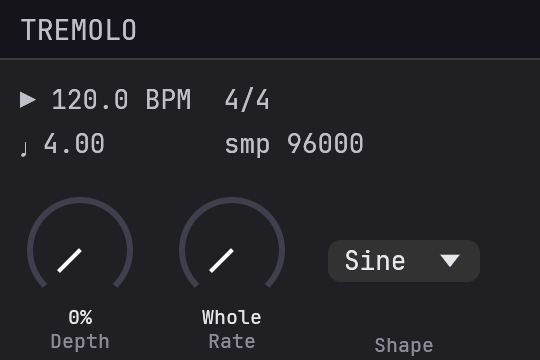
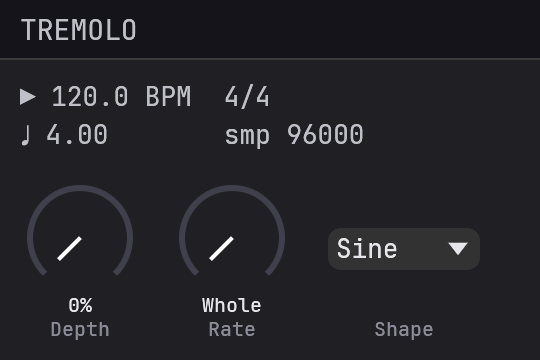
egui: Noto Music baseline, default font, dropdown / tremolo fixes
Layout fixes for egui 0.37.

diff --git a/crates/truce-egui/src/font.rs b/crates/truce-egui/src/font.rs
@@ -20,13 +20,30 @@ pub fn apply_font(ctx: &egui::Context, font_data: &'static [u8]) {
         Arc::new(egui::FontData::from_static(font_data)),
     );
     // Symbol fallback for glyphs the primary font lacks (musical notes
-    // like `♩`, misc symbols). egui 0.37 moved its own symbol fonts
-    // behind an opt-in feature whose font crate isn't reliably published,
-    // so without this such glyphs render as tofu. Appended last, so it
-    // only fills gaps the primary (and any egui default) don't cover.
+    // like `♩`, misc symbols). egui 0.37 ships its fonts only behind its
+    // `default_fonts` feature (emoji additionally behind
+    // `monochrome_emoji_fonts`), which truce-egui leaves off, so without
+    // this such glyphs render as tofu. Appended last, so it only fills
+    // gaps the primary and any egui fonts a plug-in opted into don't cover.
+    // Noto Music covers music symbols, not emoji or egui's icon glyphs -
+    // a plug-in that uses those enables egui's font features itself.
+    //
+    // Tweaked to sit with the primary text: Noto Music draws its notes
+    // small within the em (`♩` is ~0.6 cap height at scale 1) and its tall,
+    // bottom-light vertical metrics put the glyph ~2 pt under the
+    // primary's baseline at 13 pt. Scale 1.4 and a lift of 0.2 of the
+    // scaled size (0.28 em) bring `♩` to cap height on the baseline. Row
+    // heights come from the primary face, so they're untouched; a symbol's
+    // advance does grow 1.4x with the scale.
     fonts.font_data.insert(
         "truce_symbols".to_owned(),
-        Arc::new(egui::FontData::from_static(truce_font::NOTO_MUSIC)),
+        Arc::new(
+            egui::FontData::from_static(truce_font::NOTO_MUSIC).tweak(egui::FontTweak {
+                scale: 1.4,
+                y_offset_factor: -0.2,
+                ..Default::default()
+            }),
+        ),
     );
     for family in [egui::FontFamily::Proportional, egui::FontFamily::Monospace] {
         let fam = fonts.families.get_mut(&family).unwrap();
@@ -34,4 +51,34 @@ pub fn apply_font(ctx: &egui::Context, font_data: &'static [u8]) {
         fam.push("truce_symbols".to_owned());
     }
     ctx.set_fonts(fonts);
+}
+
+/// Load the editor's fonts: `font_data` if the editor set one with
+/// `with_font`, else [`truce_font::JETBRAINS_MONO`]. Either way the Noto
+/// Music symbol fallback comes along (see [`apply_font`]).
+///
+/// egui 0.37 ships no fonts unless its `default_fonts` feature is on
+/// (truce-egui leaves it off), so an editor that applied nothing - the
+/// 6.x behaviour without `with_font` - would draw every glyph as tofu.
+pub(crate) fn apply_editor_font(ctx: &egui::Context, font_data: Option<&'static [u8]>) {
+    apply_font(ctx, font_data.unwrap_or(truce_font::JETBRAINS_MONO));
+}
+
+#[cfg(test)]
+mod tests {
+    /// An editor that never called `with_font` must still draw text: egui
+    /// 0.37 ships no fonts of its own here (`default_fonts` off), so
+    /// without the fallback every glyph is tofu.
+    #[test]
+    fn editor_without_with_font_has_glyphs() {
+        let ctx = egui::Context::default();
+        super::apply_editor_font(&ctx, None);
+        let mut out = ctx.run_ui(egui::RawInput::default(), |_| {});
+        out.textures_delta.clear();
+        let has = |t: &str| ctx.fonts_mut(|f| f.has_glyphs(&egui::FontId::proportional(14.0), t));
+        assert!(has("Gain 0.0 dB"), "default font missing");
+        assert!(has("\u{2669}"), "Noto Music fallback missing");
+        let mut out = ctx.run_ui(egui::RawInput::default(), |_| {});
+        out.textures_delta.clear();
+    }
 }

diff --git a/crates/truce-egui/src/widgets/dropdown.rs b/crates/truce-egui/src/widgets/dropdown.rs
@@ -14,16 +14,15 @@ use truce_params::{Params, sample::Float};
 // row of mixed dropdowns / knobs has all labels at the same baseline.
 const CELL_W: f32 = 80.0;
 const CELL_H: f32 = 82.0;
-/// Y of the label's top edge inside the cell. The knob paints its
-/// label with a direct `painter.text(..., Align2::CENTER_TOP)` call
-/// at `rect.top + 69`, whose visual top sits a few pixels lower
-/// than where `egui::Label` rendered through a `top_down` layout
-/// lands at the same y - the layout path applies extra item spacing
-/// above the label. Nudging the target down by ~3 px makes the
-/// label baselines match by eye.
-const LABEL_TOP_Y: f32 = 72.0;
-/// `ComboBox` button height under egui's default spacing.
-const COMBO_TOTAL_Y: f32 = 22.0;
+/// Y of the label's top edge inside the cell - exactly where
+/// `param_knob` paints its own. Painted directly the same way (not laid
+/// out after the `ComboBox`), so egui's widget metrics can't move it:
+/// egui 0.37's taller `interact_size` pushed a flowed label ~2 pt below
+/// the knobs'.
+const LABEL_TOP_Y: f32 = 69.0;
+/// Space above the `ComboBox` button, centring it in the area over the
+/// label.
+const COMBO_TOP_PAD: f32 = 25.0;
 
 /// Render a click-to-open dropdown for the param `id` with `label`
 /// underneath. Option labels are derived from the param's range +
@@ -74,18 +73,19 @@ pub fn param_dropdown<P: Params + ?Sized>(
             .max_rect(rect)
             .layout(egui::Layout::top_down(egui::Align::Center)),
     );
-    // Vertically center the ComboBox button inside the cell. The label
-    // still anchors at `LABEL_TOP_Y` to line up with `param_knob`'s
-    // label. Layout from the top: pad above to center the button, then
-    // pad below to drop the label at the shared Y.
-    let combo_top_pad = ((LABEL_TOP_Y - COMBO_TOTAL_Y) / 2.0).max(0.0);
-    let combo_bottom_pad = (LABEL_TOP_Y - COMBO_TOTAL_Y - combo_top_pad).max(0.0);
-    child.add_space(combo_top_pad);
+    child.add_space(COMBO_TOP_PAD);
+    // egui 0.37's 8 pt button padding leaves a 1-col cell too narrow for
+    // a 6-char option ("Mode A", "Square") and wraps it mid-word into a
+    // taller button that can reach the label. Tighter padding fits those
+    // again; anything longer truncates with an ellipsis (`cols` widens
+    // the cell) rather than wrapping.
+    child.spacing_mut().button_padding.x = 4.0;
 
     let cur_value: f32 = state.get_param(id);
     let combo_resp = egui::ComboBox::from_id_salt(("truce-egui:param_dropdown", id))
         .selected_text(&current_text)
         .width(cell_w - 4.0)
+        .truncate()
         .show_ui(&mut child, |ui| {
             for i in 0..count {
                 let norm = discrete_norm(i, count);
@@ -101,10 +101,15 @@ pub fn param_dropdown<P: Params + ?Sized>(
             }
         });
 
-    child.add_space(combo_bottom_pad);
     let dim = ui.visuals().widgets.noninteractive.fg_stroke.color;
-    child.add(egui::Label::new(
-        egui::RichText::new(label).color(dim).size(10.0),
-    ));
+    // Clipped to the cell like `param_knob`'s, so a long label can't run
+    // into the neighbour.
+    ui.painter_at(rect).text(
+        egui::pos2(rect.center().x, rect.top() + LABEL_TOP_Y),
+        egui::Align2::CENTER_TOP,
+        label,
+        egui::FontId::proportional(10.0),
+        dim,
+    );
     combo_resp.response
 }

diff --git a/crates/truce-font/src/lib.rs b/crates/truce-font/src/lib.rs
@@ -15,8 +15,11 @@
 //! ("Copyright 2020 The `JetBrains` Mono Project Authors") is preserved
 //! inside the TTF.
 //!
-//! Downstream redistribution must keep the font's copyright notice
-//! intact and ship a copy of the OFL.
+//! Noto Music (the symbol fallback, [`NOTO_MUSIC`]) is under the same
+//! license with its own notice, shipped as `fonts/NotoMusic-OFL.txt`.
+//!
+//! Downstream redistribution must keep each font's copyright notice
+//! intact and ship a copy of its OFL.
 
 /// `JetBrains` Mono Regular as raw TTF bytes. Suitable for embedding in
 /// a plugin GUI as the fallback / canonical truce monospace font.
@@ -28,12 +31,15 @@ pub static JETBRAINS_MONO: &[u8] = include_bytes!("../fonts/JetBrainsMono-Regula
 
 /// Noto Music Regular as raw TTF bytes - a small (~80 KB) symbol fallback
 /// covering musical and miscellaneous-symbol glyphs (e.g. `♩` U+2669) that
-/// a plug-in UI may use but that `JetBrains` Mono lacks. egui's own bundled
-/// symbol fonts became opt-in (and their crate is not reliably published)
-/// in 0.37, so truce ships this as the fallback for GUI backends.
+/// a plug-in UI may use but that `JetBrains` Mono lacks. egui 0.37 ships
+/// its own fonts only behind its `default_fonts` / `monochrome_emoji_fonts`
+/// features, which truce-egui leaves off, so truce ships this as the
+/// fallback for GUI backends. It doesn't cover emoji or egui's icon glyphs.
 ///
 /// Noto Music is licensed under the SIL Open Font License v1.1 (the same
-/// license as `JetBrains` Mono); the text is at `fonts/OFL.txt`.
+/// license as `JetBrains` Mono, with its own copyright notice); its text is
+/// at `fonts/NotoMusic-OFL.txt`, also packaged via the manifest's
+/// `include` list.
 pub static NOTO_MUSIC: &[u8] = include_bytes!("../fonts/NotoMusic-Regular.ttf");
 
 /// Glyph rasterization over the bundled font. Behind the `raster`

diff --git a/crates/truce-egui/src/editor_ios.rs b/crates/truce-egui/src/editor_ios.rs
@@ -113,6 +113,9 @@ impl<P: Params + 'static> EguiEditor<P> {
         self
     }
 
+    /// Set a custom default font (TrueType data). Without one the editor
+    /// uses [`truce_font::JETBRAINS_MONO`] (egui 0.37 ships no fonts of
+    /// its own here); either way the Noto Music symbol fallback is added.
     #[must_use]
     pub fn with_font(mut self, font: &'static [u8]) -> Self {
         self.font = Some(font);
@@ -255,24 +258,10 @@ impl<P: Params + 'static> Editor for EguiEditor<P> {
         if let Some(v) = self.visuals.clone() {
             egui_ctx.set_visuals(v);
         }
-        if let Some(font_bytes) = self.font {
-            let mut fonts = egui::FontDefinitions::default();
-            fonts.font_data.insert(
-                "truce-egui".into(),
-                Arc::new(egui::FontData::from_static(font_bytes)),
-            );
-            fonts
-                .families
-                .entry(egui::FontFamily::Proportional)
-                .or_default()
-                .insert(0, "truce-egui".into());
-            fonts
-                .families
-                .entry(egui::FontFamily::Monospace)
-                .or_default()
-                .insert(0, "truce-egui".into());
-            egui_ctx.set_fonts(fonts);
-        }
+        // Same font setup as the desktop editor and the screenshot
+        // renderer, including the tweaked Noto Music symbol fallback -
+        // a hand-rolled copy here had no fallback, so `♩` drew as tofu.
+        crate::font::apply_editor_font(&egui_ctx, self.font);
 
         let typed_ctx = context.with_params(Arc::clone(&self.params));
         self.ui

diff --git a/crates/truce-egui/src/editor.rs b/crates/truce-egui/src/editor.rs
@@ -308,7 +308,9 @@ impl<P: Params + 'static> EguiEditor<P> {
         self
     }
 
-    /// Set a custom default font (TrueType data).
+    /// Set a custom default font (TrueType data). Without one the editor
+    /// uses [`truce_font::JETBRAINS_MONO`] (egui 0.37 ships no fonts of
+    /// its own here); either way the Noto Music symbol fallback is added.
     ///
     /// ```ignore
     /// EguiEditor::new(params, (400, 300), my_ui)
@@ -532,9 +534,7 @@ impl<P: Params + ?Sized> EguiWindowHandler<P> {
         }
         let egui_ctx = crate::new_egui_context();
         egui_ctx.set_visuals(self.visuals.clone());
-        if let Some(font_data) = self.font {
-            crate::font::apply_font(&egui_ctx, font_data);
-        }
+        crate::font::apply_editor_font(&egui_ctx, self.font);
         self.egui_ctx = egui_ctx;
         self.device_lost = device_lost;
     }
@@ -1597,9 +1597,7 @@ impl<P: Params + 'static> Editor for EguiEditor<P> {
                         RenderThread::spawn(hwnd, phys_w, phys_h, device_lost_for_renderer)
                     });
 
-                if let Some(font_data) = font {
-                    crate::font::apply_font(&egui_ctx, font_data);
-                }
+                crate::font::apply_editor_font(&egui_ctx, font);
 
                 // baseview's `on_frame` drives the frame loop, but it no
                 // longer paints unconditionally every tick: the handler's

diff --git a/examples/truce-example-tremolo/src/lib.rs b/examples/truce-example-tremolo/src/lib.rs
@@ -251,6 +251,9 @@ fn draw_transport_readout(ui: &mut egui::Ui, state: &PluginContext<TremoloParams
         Some([tempo, sig, beat, samples]) => {
             egui::Grid::new("transport")
                 .num_columns(2)
+                // Rows as tall as the text, not egui's `interact_size.y`
+                // (20 in 0.37) - these are read-only labels, nothing to hit.
+                .min_row_height(0.0)
                 .spacing(egui::vec2(16.0, 2.0))
                 .show(ui, |ui| {
                     cell(ui, &tempo);

diff --git a/crates/truce-egui/src/screenshot.rs b/crates/truce-egui/src/screenshot.rs
@@ -36,9 +36,7 @@ pub(crate) fn render_with_state<P: Params + ?Sized>(
     let ctx = egui::Context::default();
     ctx.set_visuals(visuals.unwrap_or_else(crate::theme::dark));
 
-    if let Some(font_data) = font {
-        crate::font::apply_font(&ctx, font_data);
-    }
+    crate::font::apply_editor_font(&ctx, font);
 
     // Acquire the GPU *before* running the UI. Both requests below can
     // fail on a GPU-less host (headless CI, a stripped container), and a

diff --git a/crates/truce-core/src/events.rs b/crates/truce-core/src/events.rs
@@ -478,7 +478,7 @@ impl EventList {
     ///   leaves a voice stuck sounding forever. A note-off can't be folded
     ///   like a param change, so the ring grows to take it.
     ///
-    /// Either grow is a one-off reallocation that a list sized via
+    /// Any grow is a one-off reallocation that a list sized via
     /// [`block_event_capacity`] should never hit.
     ///
     /// Channel-mode "All Notes Off" / "All Sound Off" (CC 123 / 120) are

diff --git a/CHANGELOG.md b/CHANGELOG.md
@@ -38,6 +38,14 @@ This release updates the GUI stack and raises the minimum Rust version: `truce-e
    +egui::Panel::left("p").show(ui, |ui| { /* ... */ });
    ```
 
+   **Fonts.** egui 0.37 ships its built-in fonts (Ubuntu-Light, Hack, egui's icon glyphs, and the emoji fonts) only behind its `default_fonts` / `monochrome_emoji_fonts` features, which `truce-egui` doesn't enable. In 6.x egui's default fonts came with it. Text still renders: truce applies the editor's `with_font` (or JetBrains Mono when there's none, where 6.x fell back to egui's Ubuntu-Light / Hack) plus Noto Music for music symbols. But a custom UI that draws emoji or icon glyphs (`⚙`, `✔`, `🎸`, `egui::special_emojis`) now shows tofu. To get them back, enable egui's font features in your plug-in crate (`monochrome_emoji_fonts` implies `default_fonts`); Cargo unifies them into truce-egui's egui, and they slot in as fallbacks behind your font:
+
+   ```toml
+   egui = { version = "0.37", features = ["default_fonts", "monochrome_emoji_fonts"] }
+   ```
+
+   Those features only add fallbacks: an editor without `with_font` still draws its text in JetBrains Mono. To keep 6.x's Ubuntu-Light look, pass it explicitly (`with_font(epaint_default_fonts::UBUNTU_LIGHT)`, with `epaint_default_fonts` as a dependency); screenshot baselines of a `with_font`-less editor change either way.
+
    **slint 1.15 → 1.19** — bump `slint` and `slint-build` to `=1.19.1`:
 
    ```diff
@@ -75,7 +83,7 @@ This release updates the GUI stack and raises the minimum Rust version: `truce-e
 - **`idle()` everywhere.** `Editor::idle` is now driven on CLAP, VST3, VST2, AU v2, LV2 and the standalone host (#233); AAX already drove it, and the AU v3 app-extension view still does not. A side-effecting `idle()` now fires on the newly covered formats. The `dt` clock resets when an editor opens, so the first tick after a reopen doesn't report the whole closed interval, and `dt` is capped at 100 ms so a GUI-thread stall can't make animation jump. VST3 ticks `idle()` at ~60 fps only while an editor is open; with none open, only a slow restart poll runs (Windows). On CLAP, `idle()` rides the host's `clap.timer-support` extension — a host that doesn't offer it won't tick `idle()` (baseview editors still repaint through their own loop). See the new `idle-anim` example.
 - **Keyboard forwarding.** With the editor focused, a key it doesn't use goes back to the host (Space, Return, arrange shortcuts), so DAW commands keep working. egui, iced and slint all report unused keys, and a focused text field keeps every key. egui's `claim_keys` / `claim_shortcuts` and iced's `IcedPlugin::keeps_key` opt-ins are breaking for plug-ins that read keys directly (see Breaking). Claims made in one frame add up, so each panel can claim its own keys. A claim covers only the frame that made it, so a UI that stops claiming (say, a panel closes) hands those keys back on the next rendered frame. Keys held when the window loses focus are released instead of staying claimed.
 - `truce-egui`: recovers from a failed surface acquire instead of staying black, fixing a freeze and a GPU / host memory leak (#248). A frame dropped unrendered at shutdown or during a render panic no longer trips egui's texture-delta assert, which could abort the host in debug builds.
-- `truce-egui`: bundles Noto Music (`truce_font::NOTO_MUSIC`, SIL OFL 1.1) as a symbol fallback, so glyphs like `♩` render instead of tofu now that egui 0.37 makes its own symbol fonts opt-in.
+- `truce-egui`: bundles Noto Music (`truce_font::NOTO_MUSIC`, SIL OFL 1.1) as a symbol fallback, so glyphs like `♩` render instead of tofu now that egui 0.37 ships its own fonts only behind its `default_fonts` feature. An editor that sets no `with_font` now uses JetBrains Mono rather than no font at all. Emoji and egui's icon glyphs aren't covered - see the egui migration notes.
 - `truce-slint`: fixed window content bleeding through open popups by repainting the full frame in software (#241). A `.slint` UI that renders images or SVGs opts into decoding per plug-in via `i-slint-core` (see the slint migration note).
 - Built-in GUI: restyled toggle widget, picked up on rebuild with no code change. Its hover track and knob colours come from the new `Theme::toggle_track_hover` / `Theme::toggle_thumb`.
 

diff --git a/crates/truce-font/README.md b/crates/truce-font/README.md
@@ -21,6 +21,8 @@ The bundled JetBrains Mono font is itself licensed under the **SIL
 Open Font License, Version 1.1**. The full license text is at
 `fonts/OFL.txt`. Downstream redistribution must keep the OFL with
 the font and preserve its embedded copyright notice
-("Copyright 2020 The JetBrains Mono Project Authors").
+("Copyright 2020 The JetBrains Mono Project Authors"). The bundled
+Noto Music symbol fallback is under the same license with its own
+notice, at `fonts/NotoMusic-OFL.txt`.
 
 Part of [truce](https://github.com/truce-audio/truce). [Docs](https://truce.audio/docs/).
